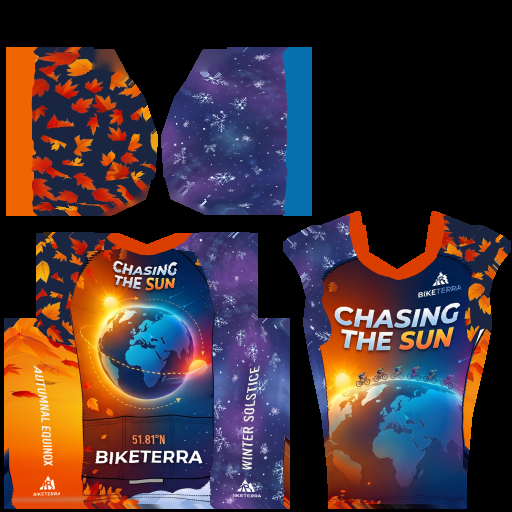
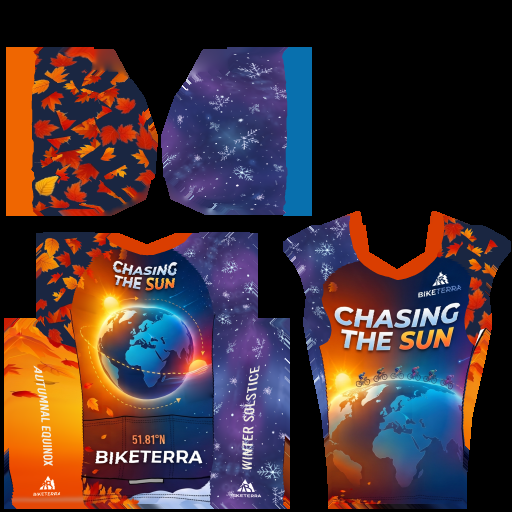
Chasing the Sun: stop the view art at the seam line's inner edge
The raglan seam tables, read by eye, ran up to 2 cm outside the mockup's
black seam line on the upper shoulders, so the art sampled the line and
the navy yoke beyond it: a dark band on the front of the snowy right
shoulder and a navy tongue on the back. The seams are now measured from
the line's inner edge (the narrower side), less 6 px.

Claude-Session: https://claude.ai/code/session_019vmXXq5LSusMKGbtYZVvtG

diff --git a/oneoff/chasing-the-sun/README.md b/oneoff/chasing-the-sun/README.md
@@ -73,5 +73,11 @@ seeded (`SEED`).
 - Measure a view's panel edges from the pixels, not by eye. The first
   guess was the jersey's outer outline, and the art then sampled the white
   page as a light streak along each panel.
+- The raglan seams too. The first seam tables, read by eye, ran up to 2 cm
+  outside the black seam line on the upper shoulders, so the art sampled the
+  line and the mockup's navy yoke beyond it. On the snowy right shoulder that
+  showed as a dark band at the front and a navy tongue on the back
+  (2026-10-25). The seams are now the line's inner edge, the narrower side,
+  less 6 px.
 - The mockup's own white lettering (BIKETERRA, CHASING) is at the 5.5
   texel/cm limit, so it renders blocky up close.
